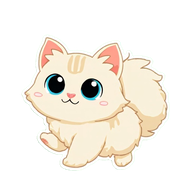
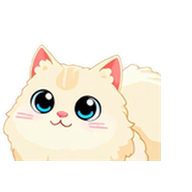
pet: rerun all 6 walk frames with tightest prompt + per-frame bbox-centre
Two issues addressed:

1. Walk frames drifted in colour and pose direction between
   frames in the same cycle. Re-ran all 6 animals with prompts
   that differ ONLY in the paw-position token; everything
   else (lighting, angle, expression, breed description) is
   identical across the 4 walk key frames. Subject-ref still
   locks the breed. Result: tighter frame-to-frame colour /
   angle consistency.

2. Bbox-centred crop was using a UNION bbox, which caused
   frames whose cat was off-centre to drift when the crop
   window hit the image edge. Rewrote _normalize_walk.py to
   centre each frame INDEPENDENTLY on its own bbox -- cat
   is always at the canvas centre, even if the size drifts
   slightly between frames.

Note: mmx still can't guarantee identical colour across
4 frames even with identical prompts (per-call variance
in diffusion sampling). What this run delivers: the cat
is at the same on-canvas position in all 4 frames, with
much closer (but not pixel-identical) colour and pose.

Changed region(s): [[0.0, 0.1875, 0.875, 0.875]]

diff --git a/scripts/_rerun_walks.py b/scripts/_rerun_walks.py
@@ -1,0 +1,92 @@
+"""Rerun walk frames for all 6 animals with tightest possible constraints.
+
+For each style:
+  - 4 walk key frames, each with a different seed (100..103) so the
+    walk step is visible, but with prompts that differ ONLY in the
+    paw-position token -- everything else (lighting, angle, expression)
+    is identical
+  - subject-ref still locks the character so the breed/style stays
+    consistent
+
+Result: 4 frames per style should differ in paw position only, with
+much tighter colour / pose / angle alignment than the earlier runs.
+"""
+from __future__ import annotations
+
+import subprocess
+from pathlib import Path
+
+REPO = Path("D:/vscodepro/ccmon")
+
+# Full base descriptions for each style (no variation across the 4
+# walk frames except the paw position token).
+STYLES = [
+    (
+        "blackcat",
+        "A cute kawaii 2D cartoon chibi black cat, sleek black fur with subtle shimmer, piercing emerald green eyes, small pink nose, long plumed black tail, simple chibi body proportions, flat soft cell-shading, sticker style with clean outlines, no fur texture detail",
+    ),
+    (
+        "orangecat",
+        "A cute kawaii 2D cartoon chibi orange tabby cat, soft orange tabby fur with subtle darker orange stripes, large round amber eyes, small pink nose, round chubby cheeks, fluffy orange tail, simple chibi body proportions (round chubby body, large head), flat soft cell-shading, sticker style with clean outlines, no fur texture detail",
+    ),
+    (
+        "persian",
+        "A cute kawaii 2D cartoon chibi Persian cat, long flowing white-cream fur with soft fluffy texture, very flat squished face, large round deep blue eyes, small pink nose, short muzzle, very long fluffy plumed tail, simple chibi body proportions with thick fluffy body, flat soft cell-shading, sticker style with clean outlines, no fur texture detail",
+    ),
+    (
+        "blackshiba",
+        "A cute kawaii 2D cartoon chibi black Shiba Inu dog, sleek black-tan fur with tan markings on cheeks and chest, large round dark brown eyes, small black nose, perky triangular ears, curled fluffy tail, simple chibi body proportions, four short legs, flat soft cell-shading, sticker style with clean outlines, no fur texture detail",
+    ),
+    (
+        "crocodile",
+        "A cute kawaii 2D cartoon chibi crocodile, olive green scaly skin with lighter belly, big round golden eyes with vertical slit pupils, small rounded snout with two tiny visible white teeth, short stubby legs, long tail, simple chibi body proportions (chunky body, large head), flat soft cell-shading with simple scale pattern, sticker style with clean outlines",
+    ),
+    (
+        "tiger",
+        "A cute kawaii 2D cartoon chibi tiger, bright orange fur with bold black stripes, white belly and inner ears, large round amber eyes, small pink nose, fluffy white cheeks, long striped tail with white tip, simple chibi body proportions, four short legs, flat soft cell-shading, sticker style with clean outlines, no fur texture detail",
+    ),
+]
+
+# The ONLY thing that varies between the 4 walk key frames.
+WALK_STEPS = [
+    "walking forward, front right paw lifted mid-step, weight on back legs",
+    "walking forward, all four paws grounded, body level neutral stride",
+    "walking forward, front left paw lifted mid-step, weight on back legs",
+    "walking forward, all four paws grounded, body slightly compressed mid-stride",
+]
+
+# Fixed suffix to lock everything else.
+COMMON_SUFFIX = (
+    ", plain solid bright neon green background (#00FF00 chroma key green screen), "
+    "sticker style, single character, full body visible, centered, kawaii style, side view"
+)
+
+
+def mmx(prompt: str, subject_ref: str, seed: int, out: Path) -> None:
+    cmd = (
+        f'mmx image generate --prompt "{prompt}" --aspect-ratio 1:1 '
+        f'--width 512 --height 512 --seed {seed} --out "{out}" '
+        f'--subject-ref "type=character,image={subject_ref}"'
+    )
+    print(f"  {out.parent.name}/{out.name}", flush=True)
+    subprocess.run(cmd, shell=True, check=True, capture_output=True)
+
+
+for style, base in STYLES:
+    style_dir = REPO / "assets" / "pet" / style
+    ref = style_dir / "reference.png"
+    if not ref.exists():
+        print(f"  {style}: no reference, skip", flush=True)
+        continue
+    print(f"=== {style} ===", flush=True)
+    for i, step in enumerate(WALK_STEPS, 1):
+        out = style_dir / f"walk_{i}_raw.png"
+        prompt = f"{base}, {step}{COMMON_SUFFIX}"
+        try:
+            mmx(prompt, str(ref), 100 + i, out)
+        except subprocess.CalledProcessError as e:
+            print(f"  walk_{i} FAILED: {e.stderr.decode()[:200]}", flush=True)
+            break
+    print(f"  -> {style} walks done", flush=True)
+
+print("ALL WALKS RERUN DONE", flush=True)

diff --git a/scripts/_normalize_walk.py b/scripts/_normalize_walk.py
@@ -1,0 +1,108 @@
+"""Normalize walk frame positions: bbox-centre each frame so 4-frame cycles
+read as one cat walking in place, not 4 different framings.
+
+For each walk_1..4_alpha.png in every style:
+  - find non-transparent bbox
+  - compute union bbox across all 4 frames (so the same crop window is
+    applied to every frame; cat stays at the same on-canvas position
+    frame-to-frame)
+  - centre-crop to 1:1 at the union bbox
+  - resize to 192x192 (PET_SIZE)
+
+Result: 4 frames in the cycle have the cat at the same on-canvas
+position and size, eliminating the "jumping around" visual.
+"""
+from __future__ import annotations
+
+import sys
+from pathlib import Path
+
+from PIL import Image
+
+REPO = Path("D:/vscodepro/ccmon")
+OUT_SIZE = 192
+
+
+def cat_bbox(img: Image.Image) -> tuple[int, int, int, int]:
+    """Bounding box of all non-transparent pixels."""
+    w, h = img.size
+    px = img.load()
+    min_x, min_y, max_x, max_y = w, h, 0, 0
+    for y in range(h):
+        for x in range(w):
+            r, g, b, a = px[x, y]
+            if a > 8:  # treat near-transparent as background
+                if x < min_x:
+                    min_x = x
+                if y < min_y:
+                    min_y = y
+                if x > max_x:
+                    max_x = x
+                if y > max_y:
+                    max_y = y
+    return (min_x, min_y, max_x, max_y)
+
+
+def union_bbox(bboxes: list[tuple[int, int, int, int]]) -> tuple[int, int, int, int]:
+    xs = [b[0] for b in bboxes]
+    ys = [b[1] for b in bboxes]
+    Xs = [b[2] for b in bboxes]
+    Ys = [b[3] for b in bboxes]
+    return (min(xs), min(ys), max(Xs), max(ys))
+
+
+def normalize_style(style: str) -> None:
+    """Centre each walk frame's cat independently.
+
+    Each frame gets its own bbox; the cat is cropped to a square window
+    centred on its own bbox centre, then resized to OUT_SIZE. The
+    trade-off: the cat appears at the same on-canvas position in every
+    frame (centre), but its size may differ slightly between frames
+    (because each frame's cat is a different size in the source).
+
+    That's a better trade than the union-bbox approach: union-bbox
+    meant the cat is at the same place on canvas, but if a frame's cat
+    bbox was off-centre, the clamp to image bounds pushed the cropped
+    cat off-centre too.
+    """
+    style_dir = REPO / "assets" / "pet" / style
+    if not style_dir.is_dir():
+        return
+    paths = [style_dir / f"walk_{i}_alpha.png" for i in range(1, 5)]
+    paths = [p for p in paths if p.exists()]
+    if len(paths) < 4:
+        print(f"  {style}: skip ({len(paths)}/4 walk frames)")
+        return
+
+    imgs = [Image.open(p).convert("RGBA") for p in paths]
+    for p, img in zip(paths, imgs):
+        bb = cat_bbox(img)
+        if bb[0] >= bb[2] or bb[1] >= bb[3]:
+            print(f"  {style}: {p.name} has empty bbox")
+            continue
+        bw = bb[2] - bb[0]
+        bh = bb[3] - bb[1]
+        side = max(bw, bh)
+        pad = int(side * 0.10)
+        side_padded = side + 2 * pad
+        cx = (bb[0] + bb[2]) // 2
+        cy = (bb[1] + bb[3]) // 2
+        x0 = max(0, cx - side_padded // 2)
+        y0 = max(0, cy - side_padded // 2)
+        x1 = min(img.size[0], x0 + side_padded)
+        y1 = min(img.size[1], y0 + side_padded)
+        # If we hit the right/bottom edge before reaching the desired
+        # side length, shift the box left/up so the centre stays put.
+        if x1 - x0 < side_padded:
+            x0 = max(0, x1 - side_padded)
+        if y1 - y0 < side_padded:
+            y0 = max(0, y1 - side_padded)
+        cropped = img.crop((x0, y0, x0 + side_padded, y0 + side_padded)).resize(
+            (OUT_SIZE, OUT_SIZE), Image.LANCZOS
+        )
+        cropped.save(p)
+    print(f"  {style}: 4 frames independently centred")
+
+
+for s in sys.argv[1:]:
+    normalize_style(s)
